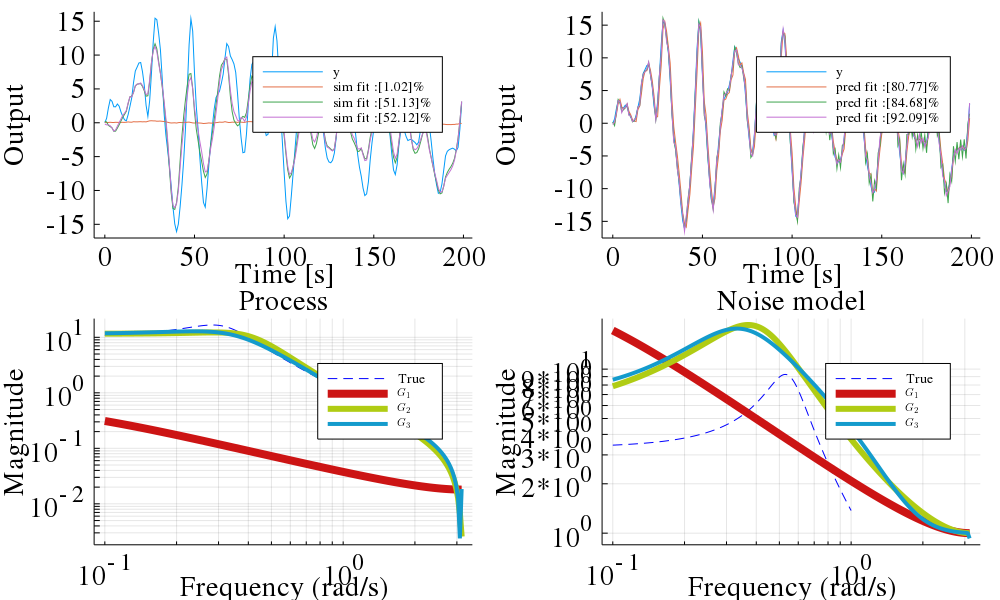
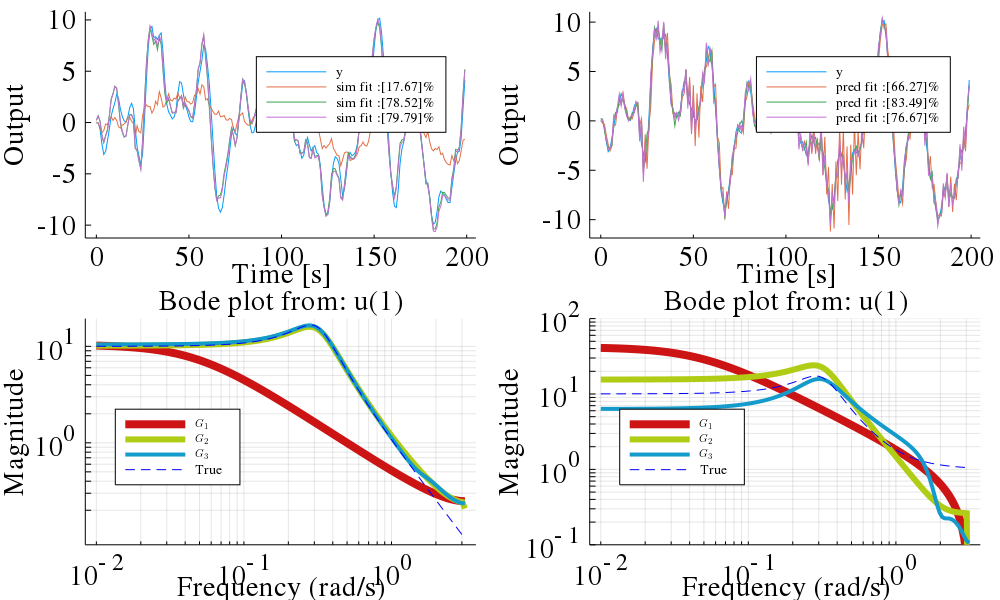
Lots of bugfixes

diff --git a/README.md b/README.md
@@ -112,7 +112,7 @@ bodeplot(noise_model(sysh), exp10.(range(-3, stop=0, length=200)), title="Estima
 - `u`: Control signals, same structure as `y`
 - `nx`: Number of poles in the estimated system. This number should be chosen as number of system poles plus number of poles in noise models for measurement noise and load disturbances.
 - `focus`: Either `:prediction` or `:simulation`. If `:simulation` is chosen, a two stage problem is solved with prediction focus first, followed by a refinement for simulation focus.
-- `metric`: A Function determining how the size of the residuals is measured, default `abs2`, but any Function such as `abs` or `x -> x'Q*x` could be used.
+- `metric`: A Function determining how the size of the residuals is measured, default `sse` (e'e), but any Function such as `norm`, `e->sum(abs,e)` or `e -> e'Q*e` could be used.
 - `regularizer(p) = 0`: function for regularization of the parameter vector `p`. The structure of `p` is detailed below. L₂ regularization, for instance, can be achieved by `regularizer = p->sum(abs2, p)`
 - `solver` Defaults to `Optim.BFGS()`
 - `kwargs`: additional keyword arguments are sent to [`Optim.Options`](http://julianlsolvers.github.io/Optim.jl/stable/#user/config/).
@@ -255,40 +255,42 @@ nx         = 2
 nu         = 1
 ny         = 1
 x0         = randn(nx)
-σy         = 1
+σy         = 0.5
 sim(sys,u) = lsim(sys, u', 1:T)[1]'
 sys        = tf(1,[1,2*0.1,0.1])
 sysn       = tf(σy,[1,2*0.1,0.3])
 # Training data
 u          = randn(nu,T)
 y          = sim(sys, u)
-yn         = y + sim(sysn, σy*randn(size(u)))
+yn         = y + sim(sysn, randn(size(u)))
 # Validation data
 uv         = randn(nu,T)
 yv         = sim(sys, uv)
-ynv        = yv + sim(sysn, σy*randn(size(uv)))
+ynv        = yv + sim(sysn, randn(size(uv)))
 ```
 We then fit a couple of models, the flag `difficult=true` causes `pem` to solve an initial global optimization problem with constraints on the stability of `A-KC` to provide a good guess for the gradient-based solver
 ```julia
-res = [pem(yn,u,nx=nx, iterations=100, difficult=true, focus=:prediction) for nx = 1:2:5]
+res = [pem(yn,u,nx=nx, iterations=100, difficult=true, focus=:prediction) for nx = [1,3,4]]
 ```
 After fitting the models, we validate the results using the validation data and the functions `simplot` and `predplot` (cf. Matlab sys.id's `compare`):
 ```julia
+ω   = exp10.(range(-2, stop=log10(pi), length=150))
 fig = plot(layout=4, size=(1000,600))
 for i in eachindex(res)
     (sysh,x0h,opt) = res[i]
-    simplot!(sysh,ynv,uv,x0h; subplot=1, ploty=i==1)
+    simplot!( sysh,ynv,uv,x0h; subplot=1, ploty=i==1)
     predplot!(sysh,ynv,uv,x0h; subplot=2, ploty=i==1)
 end
-bodeplot!(sys, plotphase=false, subplot=3, lab="True", linecolor=:blue, l=:dash);
-bodeplot!(sysn, plotphase=false, subplot=4, lab="True", linecolor=:blue, l=:dash);
-bodeplot!(ss.(getindex.(res,1)), plotphase=false, subplot=3, title="Process", linewidth=2*[4 3 2 1]);
-bodeplot!(noise_model.(getindex.(res,1)), plotphase=false, subplot=4, title="Noise model", linewidth=2*[4 3 2 1])
+bodeplot!(ss.(getindex.(res,1)),                   ω, plotphase=false, subplot=3, title="Process", linewidth=2*[4 3 2 1])
+bodeplot!(innovation_form.(getindex.(res,1)),      ω, plotphase=false, subplot=4, linewidth=2*[4 3 2 1])
+bodeplot!(sys,                                     ω, plotphase=false, subplot=3, lab="True", linecolor=:blue, l=:dash, legend = :bottomleft, title="System model")
+bodeplot!(innovation_form(ss(sys),syse=ss(sysn)),  ω, plotphase=false, subplot=4, lab="True", linecolor=:blue, l=:dash, ylims=(0.1, 100), legend = :bottomleft, title="Noise model")
 display(fig)
 ```
 ![window](figs/val.png)
 
-The figure indicates that a model with 5 poles performs best on both prediction and simulation data. The true system does, however, only have 4 poles, indicating that the 4 pole model found is a local minimum.
+In the figure, simulation output is compared to the true model on the top left and prediction on top right. The system models and noise models are visualized in the bottom plots. Both high-order models capture the system dynamics well, but struggle slightly with capturing the noise dynamics.
+The figure also indicates that a model with 3 poles performs best on both prediction and simulation data. The true system does, however, have 4 poles, indicating that the 4 pole model found is a local minimum.
 
 # Other resources
 - For estimation of linear time-varying models (LTV), see [LTVModels.jl](https://github.com/baggepinnen/LTVModels.jl).
